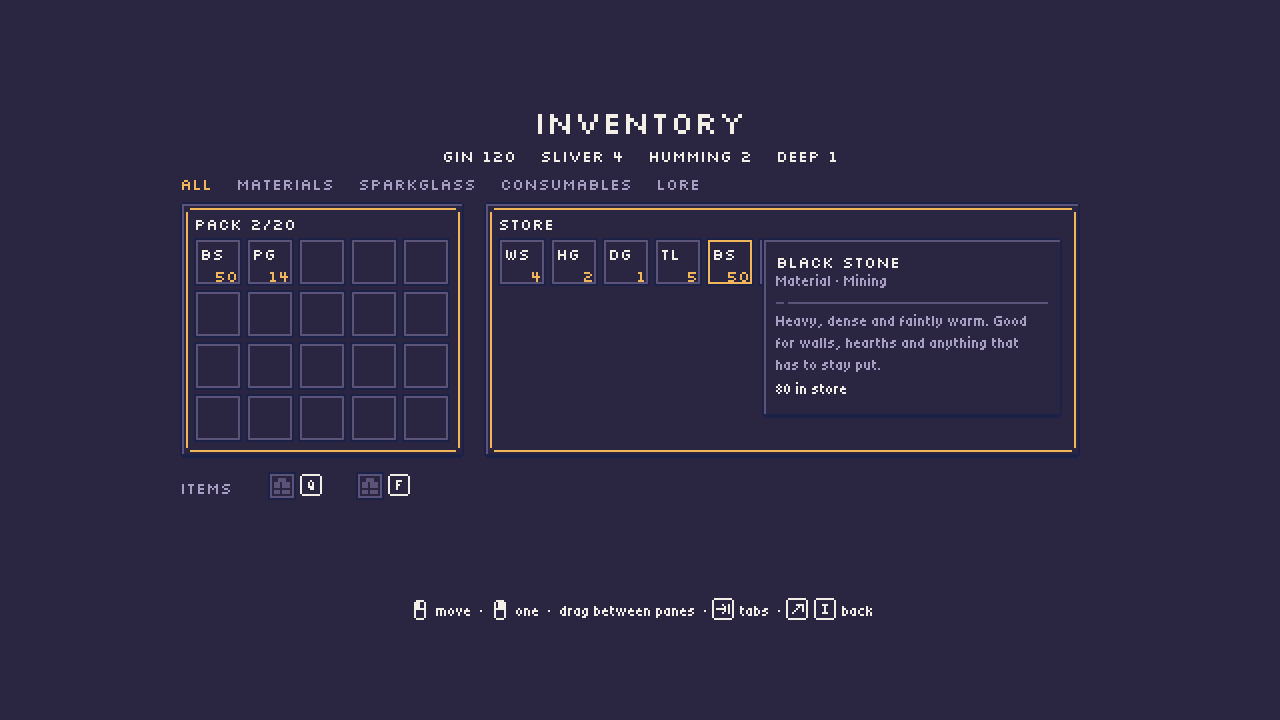
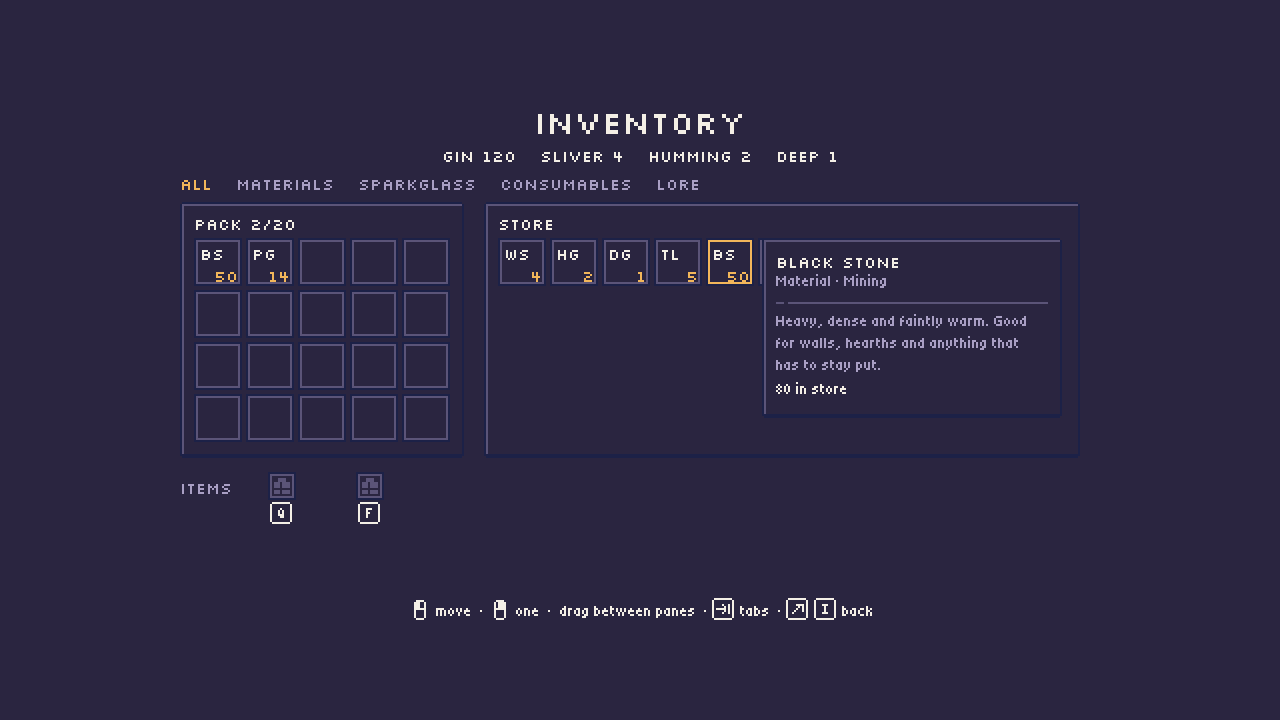
Docs and screenshots for the M2 3a follow-up: focus, refusal lines, page glyphs
inventory.md describes the lit pane, the refusal line's place and timing
and the page counter. tools/screenshots-m2-3a.mjs retakes #68's shots and
adds the pack and the store focused, the store's limit line and the page
counter (docs/screenshots/m2-3a).

Claude-Session: https://claude.ai/code/session_01B9jvN6Fis9yq7Fid6ty65L

Changed region(s): [[0.2812, 0.6722, 0.3125, 0.7333], [0.2188, 0.6722, 0.25, 0.7028]]

diff --git a/docs/design/inventory.md b/docs/design/inventory.md
@@ -216,9 +216,17 @@ draws them.
 - **Moving items** goes to the other pane: mouse, click moves the cell's stack, right-click moves one,
   drag to the other pane moves the stack; pad, Cross moves the stack, Square moves one, the D-pad or
   the left stick moves the focus, L1/R1 switch tabs; touch, tap moves the stack, long-press moves one;
-  keyboard, the arrows move the focus, Enter moves the stack, Tab switches tabs. Every move is a
-  `POST /api/inventory/move`; the screen redraws from the answer, never optimistically, and takes no
-  other move while one is in flight. A refusal shows its reason in one line ("Pack full.").
+  keyboard, the arrows or WASD move the focus, Enter moves the stack, Tab switches tabs. Every move is
+  a `POST /api/inventory/move`; the screen redraws from the answer, never optimistically, and takes no
+  other move while one is in flight. A refusal shows its reason in one line, right-aligned in the
+  header row of the pane the move went to (`PACK 20/20 … Pack full.`; the store's limit in the store's
+  header): it blinks twice, holds for 2 s, then disappears in one frame, never a fade
+  (`refusalVisible` in `inventoryView.ts`, on `blinkOut()`'s rule).
+- **Focus.** Only the pane the keys or the pad act on has the lit (`ui-focus`) rim; the other keeps
+  the plain panel frame, and with the mouse alone neither is lit. The focused cell keeps its own frame.
+  The store's page counter sits right-aligned in its header row, with the page glyphs (D-pad up and
+  down, or W and S) on either side; the Q / F key glyphs sit centred under their slots, as the HUD
+  shows its key hints.
 - **The tooltip** (hover with the mouse, focus on the pad) takes no input: the name, the kind line
   (`Material · Mining`, or just the kind), the card text muted under a 1 px divider, the count in
   this pane.
